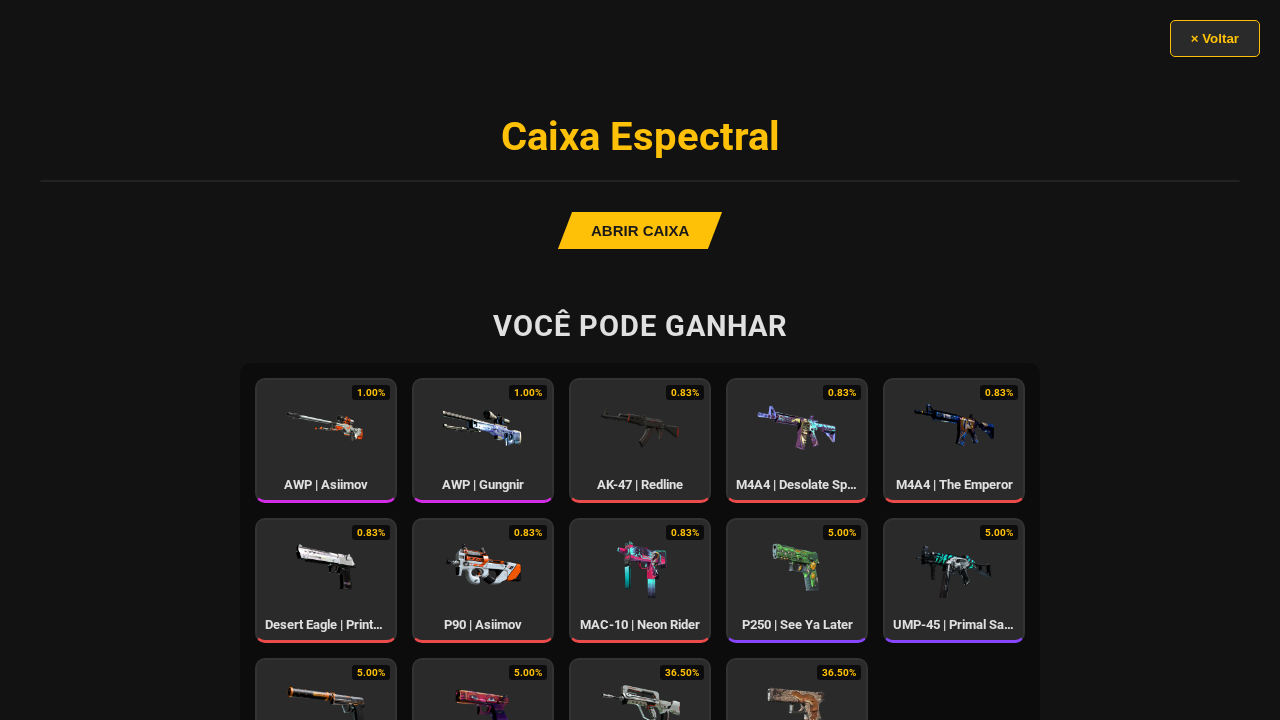
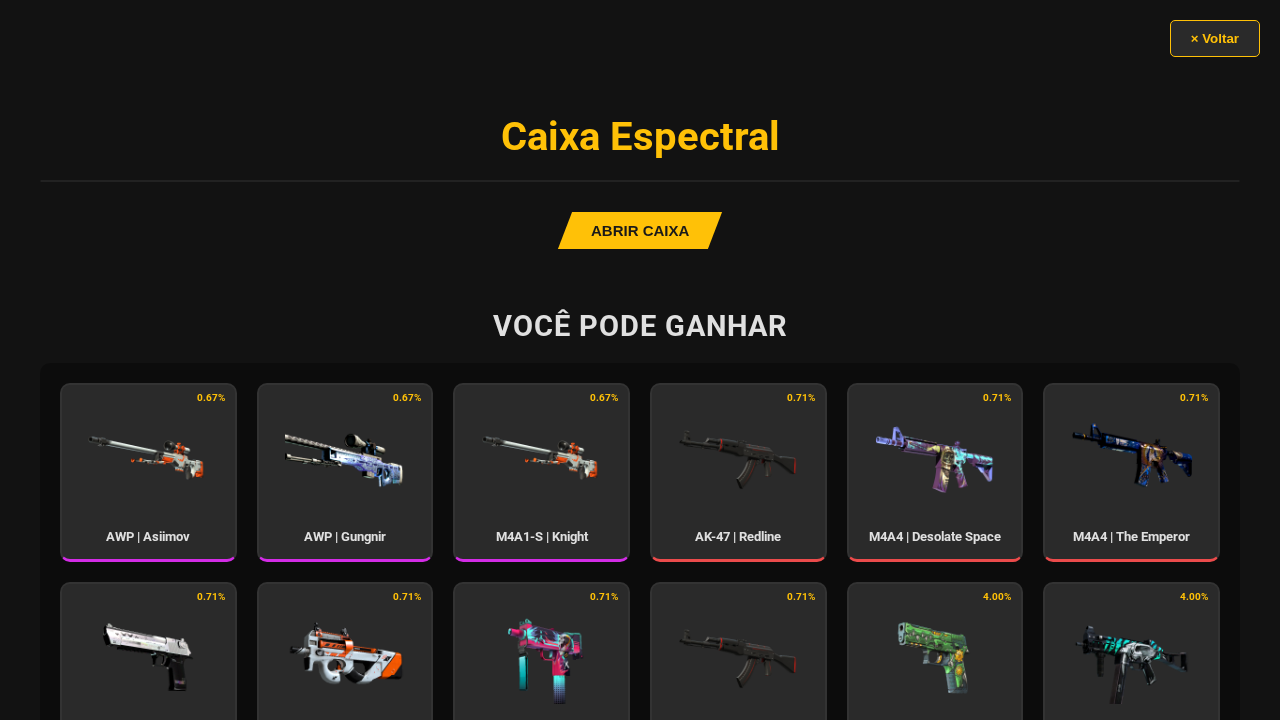
feat: Implementa melhorias visuais e adiciona novas skins
Este commit aborda várias solicitações de melhoria da interface do usuário e de conteúdo:

- **Remoção de Texto de Raridade:** O texto que exibia a raridade das skins foi removido de todas as áreas (visualização de conteúdo da caixa, modal de vitória), mantendo apenas os indicadores visuais de cor para uma interface mais limpa.

- **Ajustes na Porcentagem:** O fundo preto dos indicadores de porcentagem foi removido e o tamanho da fonte foi ajustado para melhor integração visual.

- **Melhoria do Efeito de Fumaça:** A animação de fumaça no modal da skin vencedora foi aprimorada com uma implementação CSS mais complexa, criando um efeito mais realista e turbulento.

- **Redesenho do Modal de Vitória:** O modal foi redesenhado para um formato retangular vertical com um fundo semitransparente e efeito de desfoque (frosted glass), modernizando a sua aparência.

- **Adição de Novas Skins:** Foram adicionadas 4 novas skins a cada uma das duas caixas (total de 8), expandindo o conteúdo disponível. As imagens existentes foram usadas como placeholders.

- **Layout do Conteúdo da Caixa:** O layout da grade de conteúdo da caixa foi ajustado para exibir consistentemente 6 itens por linha, e o tamanho dos itens foi aumentado para melhor visibilidade.

diff --git a/style.css b/style.css
@@ -487,24 +487,30 @@ main {
 
 #case-items-grid {
     display: grid;
-    grid-template-columns: repeat(auto-fill, minmax(130px, 1fr));
-    gap: 15px;
-    padding: 15px;
+    grid-template-columns: repeat(6, 1fr);
+    gap: 20px;
+    padding: 20px;
     background-color: rgba(0, 0, 0, 0.3);
     border-radius: 10px;
     width: 100%;
-    max-width: 800px;
+    max-width: 1200px;
     margin-top: 20px;
 }
 
 .case-skin-item {
     background-color: #2a2a2a;
     border-radius: 10px;
-    padding: 8px;
+    padding: 15px;
     text-align: center;
     border: 2px solid #333;
     position: relative;
     overflow: hidden;
+    transition: transform 0.2s ease, box-shadow 0.2s ease;
+}
+
+.case-skin-item:hover {
+    transform: scale(1.05);
+    box-shadow: 0 0 15px rgba(255, 193, 7, 0.5);
 }
 
 .skin-percentage {
@@ -519,8 +525,8 @@ main {
 }
 
 .case-skin-item img {
-    width: 80px;
-    height: 80px;
+    width: 120px;
+    height: 120px;
     object-fit: contain;
 }
 
